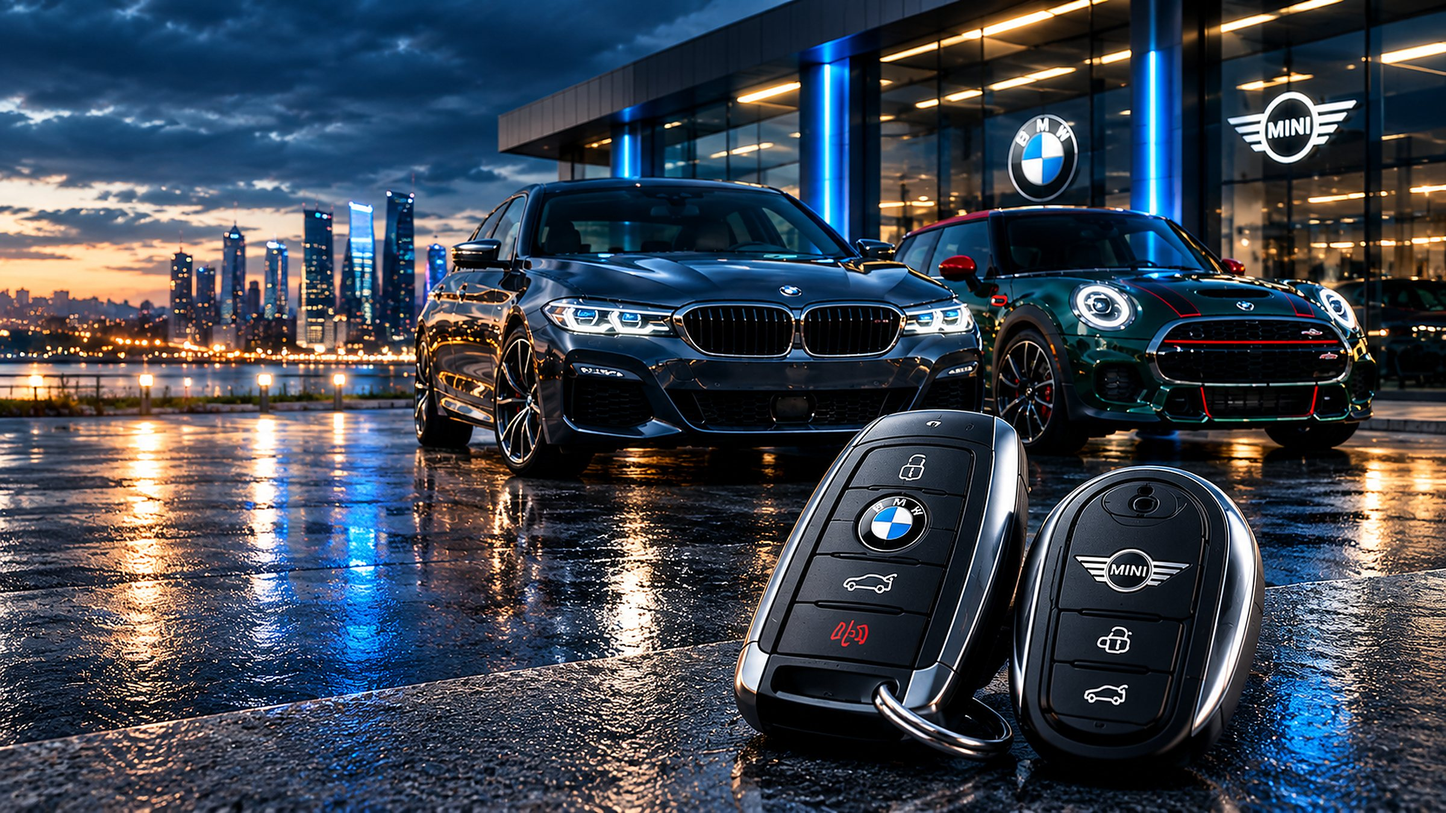
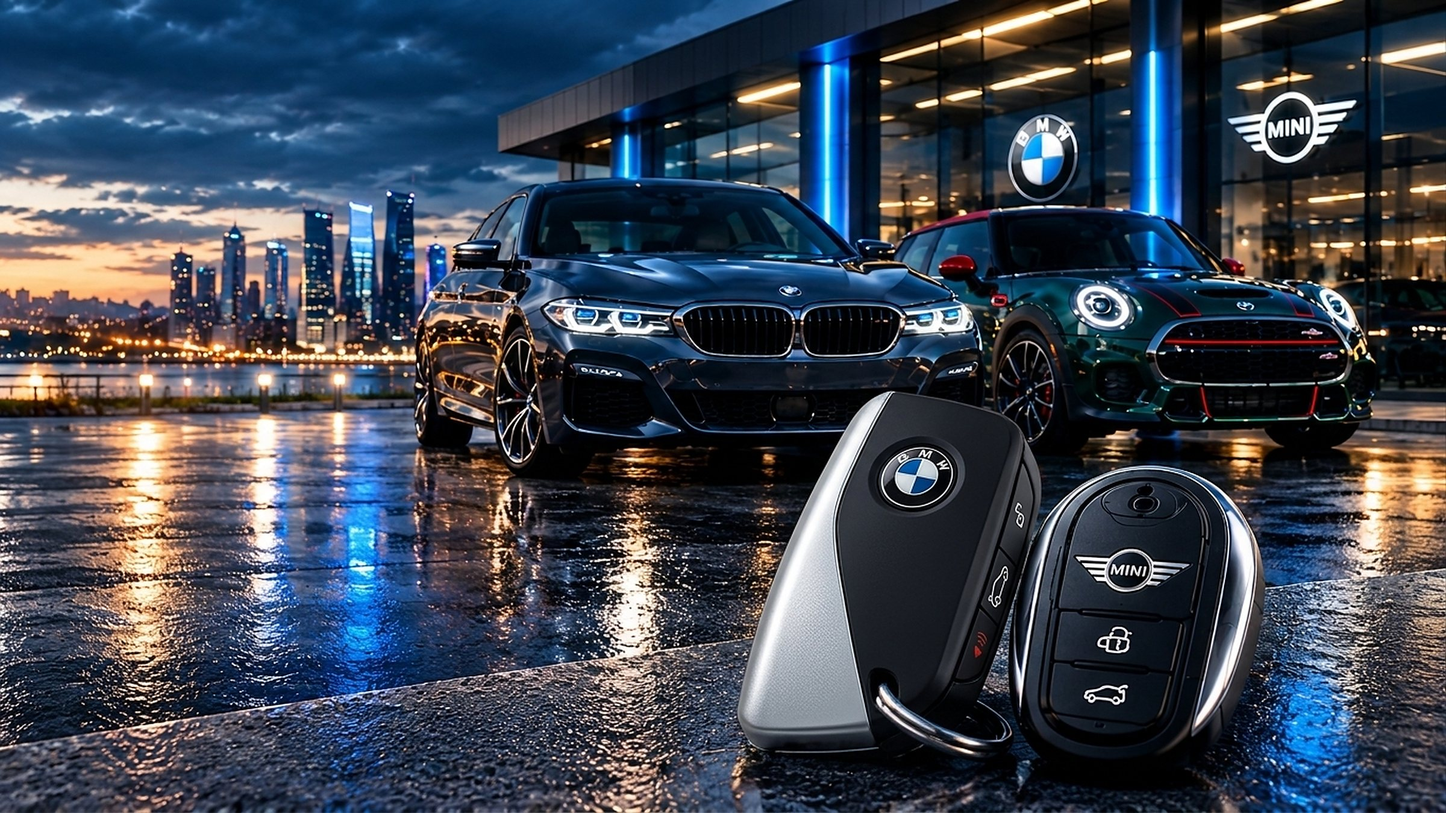
Keys page: client's hero photo with the new BMW key (v=3)
Claude-Session: https://claude.ai/code/session_01SYDZwtPMw478NZqvc1kCC3

diff --git a/abcp-infoblocks/page_klyuchi.html b/abcp-infoblocks/page_klyuchi.html
@@ -82,7 +82,7 @@
 .bcKy{font-family:Roboto,Arial,sans-serif;color:#1d2b3c;text-align:left;margin:0 0 50px;}
 .bcKy *{box-sizing:border-box;}
 .bcKy_hero{position:relative;width:100vw;margin-left:calc(50% - 50vw);min-height:500px;display:flex;align-items:center;background:#0b1424;overflow:hidden;}
-.bcKy_heroImg{position:absolute;top:0;right:0;bottom:0;width:58%;background:url(https://bmwclub77.assistant24info.ru/widget/brand/keys/hero-hq.jpg?v=2) 50% 60%/cover no-repeat;}
+.bcKy_heroImg{position:absolute;top:0;right:0;bottom:0;width:58%;background:url(https://bmwclub77.assistant24info.ru/widget/brand/keys/hero-hq.jpg?v=3) 50% 60%/cover no-repeat;}
 .bcKy_heroImg::before{content:"";position:absolute;inset:0;background:linear-gradient(90deg,#0b1424 0%,rgba(11,20,36,.6) 22%,rgba(11,20,36,0) 45%);}
 .bcKy_heroIn{position:relative;max-width:1420px;width:100%;margin:0 auto;padding:48px 15px;}
 .bcKy_eyebrow,.bcKy_eb{display:flex;align-items:center;gap:10px;font-family:'BC Exo 2',Montserrat,sans-serif;font-weight:700;font-size:13px;letter-spacing:1.5px;text-transform:uppercase;color:#3ea0ff;}
